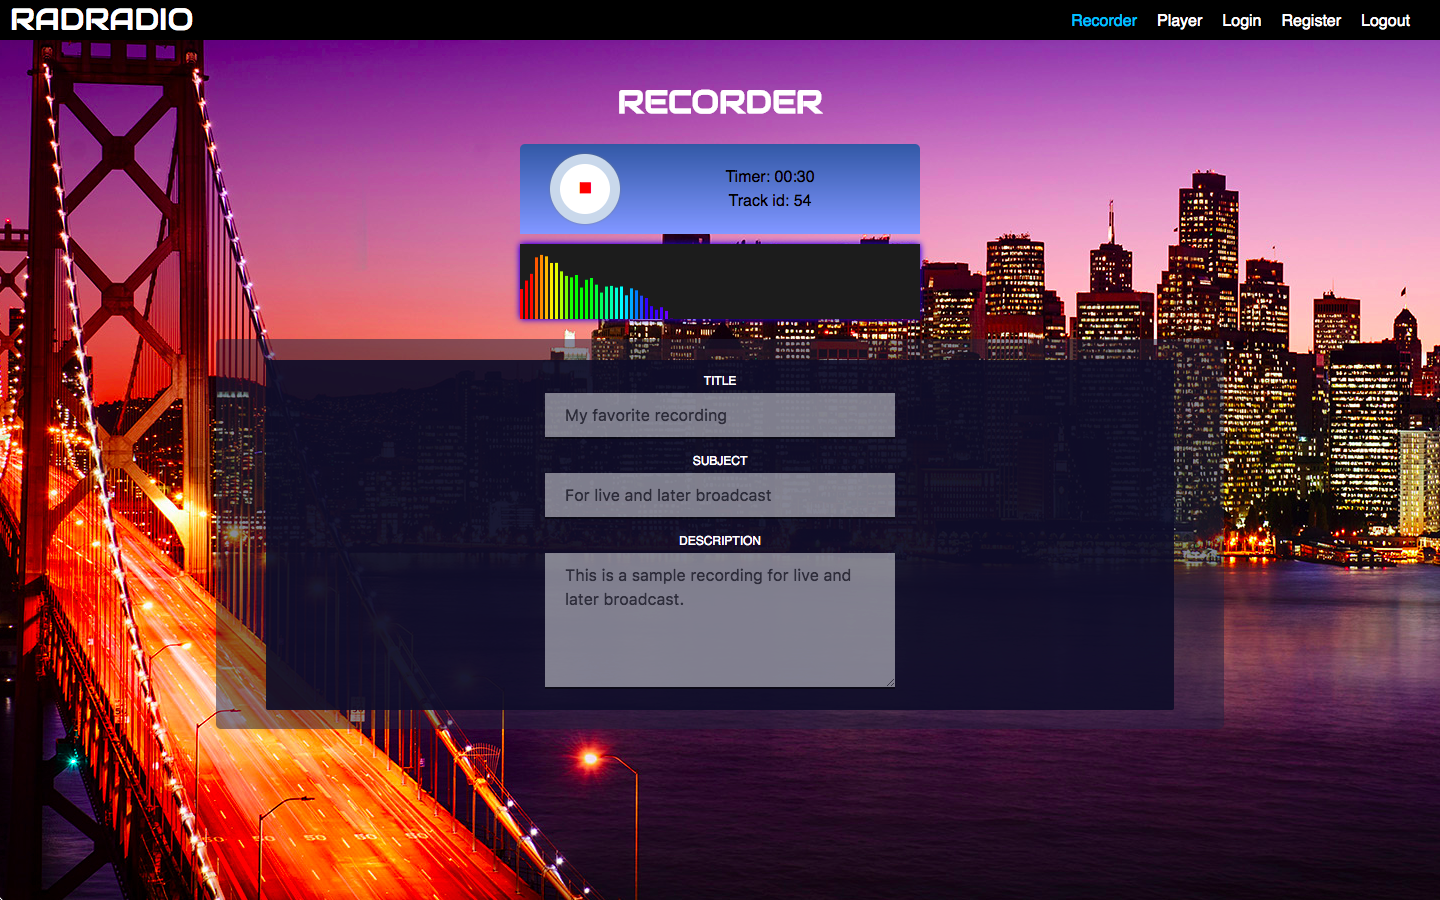
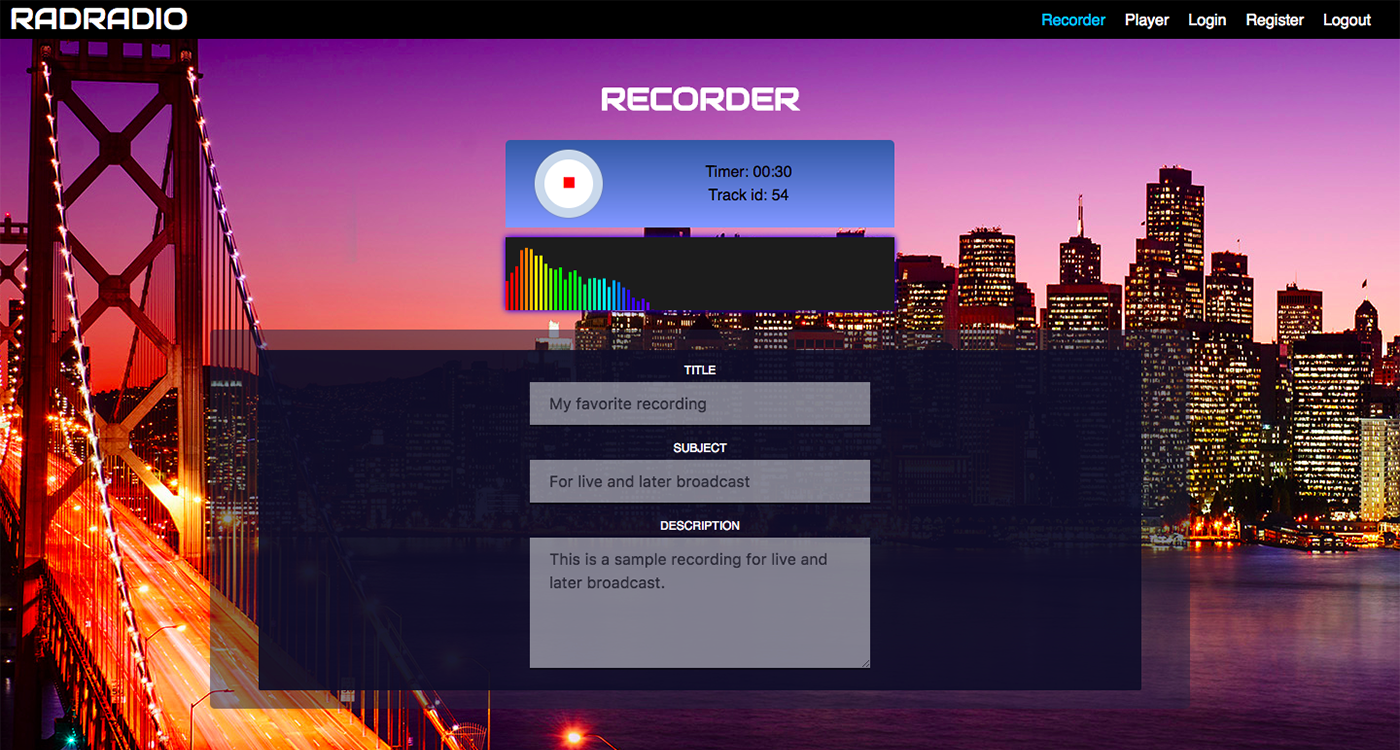
Change image widths to uniform 1400px Change image ext to png

diff --git a/index.html b/index.html
@@ -45,7 +45,7 @@
 		</div>
 		<div class="block-text projects active">
 			<a href="#modal-1"><img src="assets/mynanny/1.png" class="project-img" alt="MyNanny"></a>
-			<a href="#modal-2"><img src="assets/radradio/1.jpg" class="project-img" alt="Radradio"></a>
+			<a href="#modal-2"><img src="assets/radradio/1.png" class="project-img" alt="Radradio"></a>
 			<a href="#modal-3"><img src="assets/roomly/1.png" class="project-img" alt="Roomly"></a>
 			<a href="#modal-4"><img src="assets/giftminder/1.png" class="project-img" alt="Giftminder"></a>
 			<br/>
@@ -67,7 +67,7 @@
 					<div class="modal-title">
 						Live Podcast Broadcasting Service
 					</div>
-					<img src="assets/radradio/1.jpg" class="modal-img">
+					<img src="assets/radradio/1.png" class="modal-img">
 					<div class="modal-body">
 						Lorem ipsum fox brown jumped over the lazy dog
 					</div>
